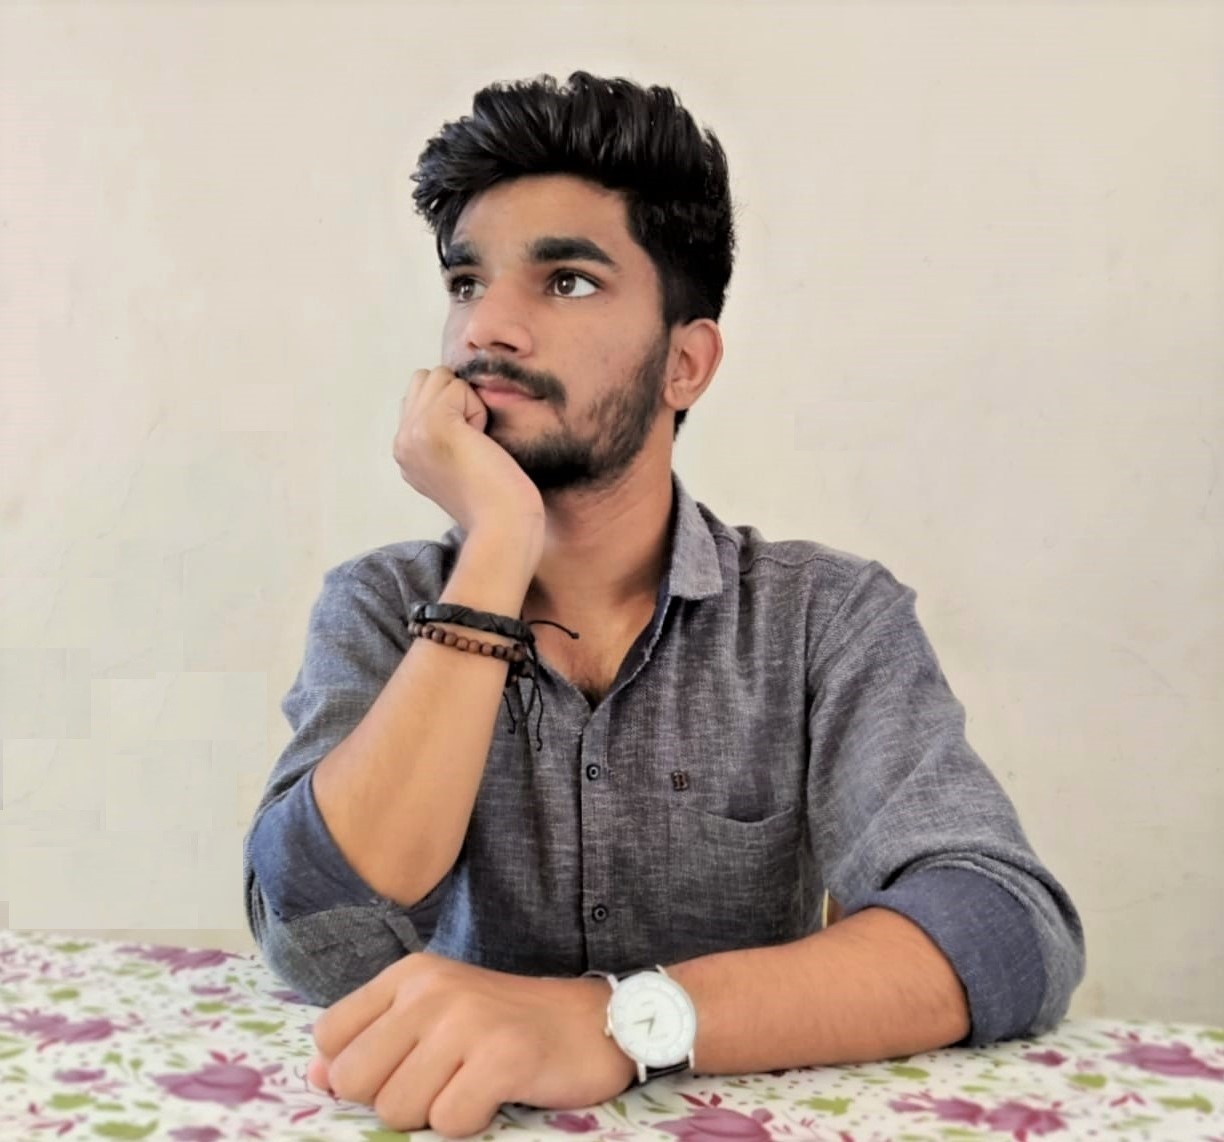
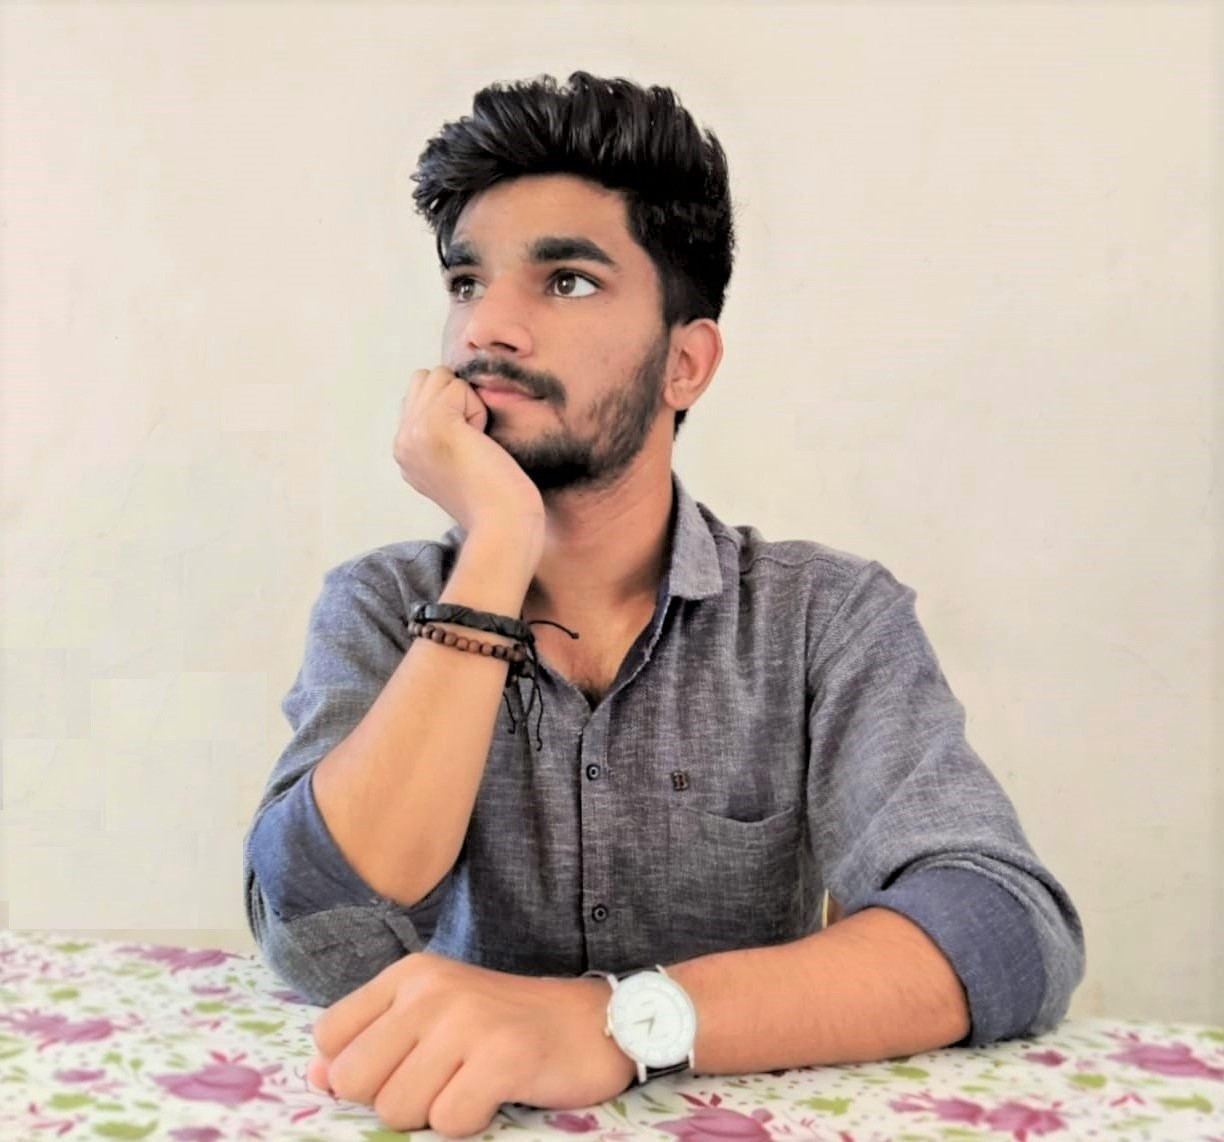
Add profile picture

diff --git a/src/components/Projects.jsx b/src/components/Projects.jsx
@@ -11,7 +11,7 @@ const Projects = () => {
       title: "E-commerce Application",
       live: "https://ecommerce-app-vikasipar.vercel.app/",
       github: "https://github.com/vikasipar/ecommerce-app",
-      stack: "React.js, Redux Toolkit, Tailwind CSS, Firebase, FakeStoreAPI",
+      stack: ['React.js', 'Redux', 'Tailwind', 'Firebase', 'FakeStoreAPI'],
       desc: "I crafted dynamic React.js components styled with Tailwind CSS, enabling intuitive product listing and filtering via FakeStoreAPI. Utilizing Redux Toolkit, I efficiently managed state for seamless cart operations. Firebase integration ensures secure user authentication with email and password login.",
       img: "/static/ezmart-mockup.png",
     },
@@ -20,7 +20,7 @@ const Projects = () => {
       title: "YouTube Clone",
       live: "https://youtube-clone-vikasipar.vercel.app/",
       github: "https://github.com/vikasipar/youtube-clone",
-      stack: "React.js, Tailwind CSS, YouTube Data Integration",
+      stack: ['React.js', 'Tailwind', 'YouTube Data API'],
       desc: "I led frontend development and API integration using React.js, Tailwind CSS, and YouTube Data. Created a video player for seamless YouTube video streaming. Designed a user-friendly search bar. Ensured responsiveness for diverse screen sizes.",
       img: "/static/youtube-clone-mockup.jpeg",
     },
@@ -29,7 +29,7 @@ const Projects = () => {
       title: "Real-Time Chat Application",
       live: "https://about:blank",
       github: "https://github.com/vikasipar/chat-app",
-      stack: "Node.js, React.js, Tailwind CSS, Socket.io",
+      stack: ['Node.js', 'React.js', 'Tailwind', 'Socket.io'],
       desc: " Leveraging React.js, I delivered a dynamic frontend experience, incorporating the react-scroll-to-bottom library and Tailwind CSS for responsive user interfaces. Additionally, I implemented Socket.io to facilitate swift and real-time interactions. On the backend, I developed a robust system using Node.js and Express.js to handle seamless communication between users.",
       img: "/static/chatapp-mockup.png",
     },
@@ -39,7 +39,7 @@ const Projects = () => {
       title: "Superhero App",
       live: "https://reactjs-superhero-app.vercel.app/",
       github: "https://github.com/vikasipar/superhero-app",
-      stack: "React.js, Tailwind CSS, Superhero API",
+      stack: ['React.js', 'Tailwind', 'Superhero API'],
       desc: "I developed the Superhero App, a dynamic web application using React.js and Tailwind CSS. Leveraging the Superhero API, I implemented features that allow users to explore details about their favorite superheroes. The project showcases my skills in frontend development, user interface design, and API integration.",
       img: "/static/superhero-mockup.jpeg",
     },
@@ -69,8 +69,8 @@ const Projects = () => {
           transition={{duration:1, delay:0.3}} 
           className={`${project.id%2!==0 ? 'md:w-[45%] mx-auto' : 'md:w-[43%]'} w-[92%] mx-auto`} >
             <h1 className='font-bold text-2xl md:text-3xl text-[#1f4167]/80'>{project.title}</h1>
-            <h3 className='font-semibold text-base md:text-lg text-[#474646]'>Tech Stack: {project.stack}</h3>
-            <p className='text-justify text-[#2a3b4e]/80 text-lg'>{project.desc}</p>
+            <h3 className='text-base w-[80vw] md:w-auto mx-auto md:text-lg text-[#474646] flex flex-wrap my-2'>{project.stack.map((tech) => (<span className='px-2 bg-[#ffbb29]/50 border border-[#ffbb29] shadow mx-1 my-[1px] rounded-2xl'>{tech}</span>)) }</h3>
+            <p className='text-justify text-[#606570] text-lg'>{project.desc}</p>
             <div className='md:space-x-9 mt-2 md:mt-5 flex justify-around text-base md:text-lg'>
               <a href={`${project.github}`} target='_blank'>
               <motion.button 
@@ -83,7 +83,7 @@ const Projects = () => {
               initial={{scale:1}}
               whileHover={{scale:1.1}}
               transition={{duration:0.7, type:"spring"}}
-              className='px-5 py-1 rounded bg-[#db9936] text-white flex items-center'>Live Demo<TbWorld className='ml-2 text-lg' /></motion.button></a>
+              className='px-5 py-1 rounded bg-[#ffb412] text-white flex items-center'>Live Demo<TbWorld className='ml-2 text-lg' /></motion.button></a>
             </div>
           </motion.div>
        </div>

diff --git a/src/components/Hero.jsx b/src/components/Hero.jsx
@@ -14,7 +14,7 @@ const Hero = () => {
         initial={{opacity:0, y:100}}
         animate={{opacity:1, y:0}}
         transition={{duration:2, type:"spring"}}
-        src="/static/dev.jpeg" alt="vikasip" className='block lg:hidden w-[50%] md:w-[30%] mx-auto mt-16' />
+        src="/static/vip.jpeg" alt="vikasip" className='block lg:hidden w-[60%] md:w-[30%] mx-auto mt-10 rounded-[6rem]' />
 
         <motion.div 
         initial={{x: -760}}
@@ -23,7 +23,7 @@ const Hero = () => {
         className='lg:w-[43%] lg:ml-48 items-center space-y-8'>
                 
                 <h1 className='text-4xl xl:text-7xl mt-9 text-center lg:text-left font-bold text-[#1f4167]/90'>Hello, I'm Vikas.</h1>
-                <p className='w-[86%] mx-auto lg:mx-0 text-lg md:text-2xl text-justify text-[#8d9094]'>I'm a <span className='text-[#fca319] font-bold text-2xl md:text-3xl'>front-end developer</span> with experience in many different languages, and technologies. I'm always looking for new challenges to tackle.</p>
+                <p className='w-[86%] mx-auto lg:mx-0 text-lg md:text-2xl text-justify text-[#848a98]'>I'm a <span className='text-[#fca319] font-bold text-2xl md:text-3xl'>front-end developer</span> with experience in many different languages, and technologies. I'm always looking for new challenges to tackle.</p>
 
                 <div className='space-x-10 flex flex-wrap items-center text-[#1f4167] w-fit mx-auto lg:mx-0'>
                 <motion.a 
@@ -48,7 +48,7 @@ const Hero = () => {
         transition={{delay:0.2, ease:'easeIn', duration:1.9, type:"spring"}}
         className='hidden lg:block w-[30%]'
         >
-          <img src="/static/dev.jpeg" alt="vikasip" className={`w-[99%] left-0`} />
+          <img src="/static/vip.jpeg" alt="vikasip" className={`w-[99%] left-0 rounded-full`} />
         </motion.div>
 
       </div>
